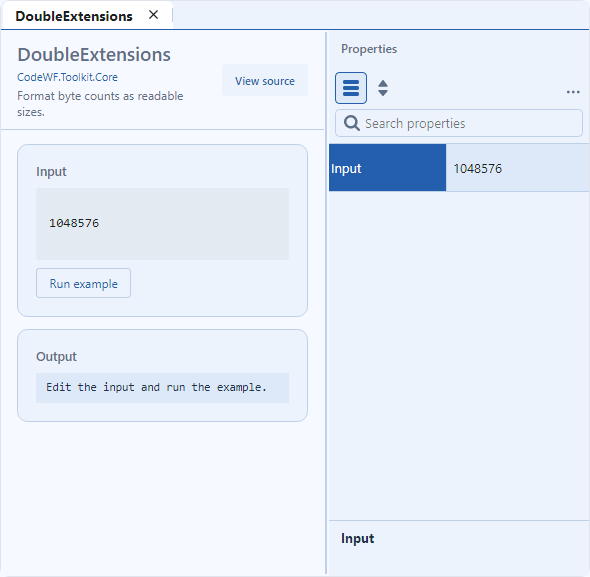
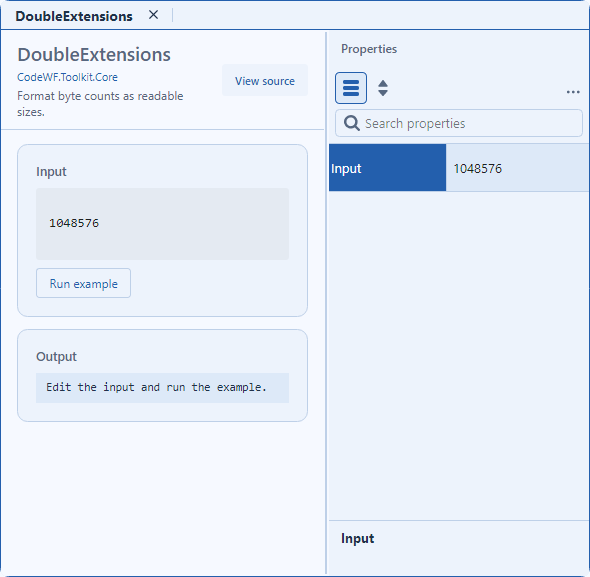
文档：更新1.0.0.25原生演示截图与验收记录

Changed region(s): [[0.0, 0.9983, 1.0, 1.0], [0.0, 0.0, 0.2136, 0.0312]]

diff --git a/docs/NativeDemo.md b/docs/NativeDemo.md
@@ -1,6 +1,6 @@
 # CodeWF.Toolkit 原生 Demo
 
-当前版本 `1.0.0.24`。Demo 使用 Ribbon + Dock，以单个帮助类或公开 API 为导航单位：9 个分类、52 个页面。目录由 `design/catalog.json` 统一维护，它也是 Demo 的构建输入，不能在构建前删除。
+当前版本 `1.0.0.25`。Demo 使用 Ribbon + Dock，以单个帮助类或公开 API 为导航单位：9 个分类、52 个页面。目录由 `design/catalog.json` 统一维护，它也是 Demo 的构建输入，不能在构建前删除。
 
 ## 窗口与演示
 
@@ -26,11 +26,18 @@
 pwsh scripts/sync_localization_keys.ps1 -Check
 pwsh scripts/publish_toolkit_demo.ps1 -RuntimeIdentifier win-x64
 # 本机并行开发可增加 -BuildArtifactsPath E:/github/temp/CodeWF.Toolkit-build
+# 并以 -OutputDirectory E:/github/temp/CodeWF.Toolkit-publish 指定独立空目录
 ```
 
 `scripts/demo-verification` 加载真实 App、XAML 和 Skia，在锁屏期间离屏运行；验证八色点、Ursa 内部按钮的实际点击、语言列表、1120/1440 宽度，以及 Dock 分屏 → 浮动 → 重新停靠。页面覆盖 1664 个页面/语言/配色组合。渲染数量只表示覆盖范围，不代表全页视觉还原率。
 
-2026-10-16 的 `1.0.0.24` 使用独立缓存从官方 NuGet 还原依赖，执行正式 Windows x64 NativeAOT 发布、实际 EXE 自检、原生 UI 验证及 EXE 安装器制作。正式产物检查两语输出资源和全部 52 条内嵌目录；NativeAOT UI 覆盖八色三态、动态语言提示、语言菜单、文档分屏／浮动／回停、1664 组页面渲染和 34 次帮助类实际调用。本轮增加后台全局切语、真实下拉框回切，以及 NuGet 属性编辑器隐藏分支回归。238 项测试通过、3 项显式跳过；12 份 T4 映射及单文件原型的 208 组路由／语言／宽度检查通过。安装器门禁限定完整产品、版本和架构，安装器编译不代表人工安装。
+`1.0.0.25` 库级回归通过 242 项测试，另有 3 项打开目录或浏览器的手动用例显式跳过。新增 AppConfigHelper 批量读写的独立文件与快照回归，验证未更新配置、XML 节与注释保留，以及固定文化转换；UI 验证器的布局、日志和配置通过 `CODEWF_TOOLKIT_DEMO_DATA_DIRECTORY` 写入独立输出目录，不读取日常 Demo 布局。12 个 NuGet 主包和对应符号包统一为 `1.0.0.25`，核对目标程序集与内部依赖版本；本机验证源配置保存在仓库之外。
+
+2026-10-16 的 `1.0.0.25` 执行仓库脚本完成正式 Windows x64 NativeAOT 发布，并运行实际 EXE 的自检，确认版本、两语输出资源、全部 52 条内嵌目录及用户配置未被修改。独立 NativeAOT UI 验证器通过 1664 组页面／语言／配色渲染、34 次帮助类实际调用，以及八色三态、动态切语、真实语言下拉框、属性编辑器隐藏分支和文档分屏／浮动／回停回归。随后运行原生配色审计，覆盖 16 种模式、736 次文字对比度测量，失败数为 0；检查包括真实通知计数与不同通知状态、Ribbon 状态、命令面板和场景标记。
+
+本轮通过仓库外的临时 NuGet 配置和独立缓存消费冻结的 `12.1.4.25` Avalonia 包，保留实际消费包的来源与 SHA-256 收据；本地源不写入仓库。产品和验证器共 318 个源码与构建输入文件的 SHA-256 在最终运行后复核一致。相同源码在另一构建路径重打的包可能有不同文件字节，收据分别记录实际缓存和最终本地 feed，不混用两者的哈希。
+
+本轮也用仓库原有 Inno Setup 脚本编译 `CodeWF.Toolkit.Demo-v1.0.0.25-win-x64-setup.exe`，并生成 SHA-256 文件。独立暂存目录中的程序与已验证正式 EXE 的哈希相同，排除 PDB；原安装脚本保持不变。安装器仅编译，没有执行或进行人工安装。
 
 正式 Demo 的 `--verify-runtime <独立目录>` 不启动窗口、不读取用户配置。Windows 发布流水线在制作安装器前执行该检查；它与加载真实控件的 UI 验证器分别验证正式产物与界面行为。
 
@@ -38,7 +45,7 @@ Windows 本机执行仓库发布脚本，再运行 NativeAOT 验证器并制作 
 
 交付原型为 `design/` 下自包含单 HTML，内嵌全部运行资源，可复制到空目录离线交互。审计实际点击全部路由、色点、三态按钮和语言菜单；窗口框架支持最小化、最大化、关闭与恢复。
 
-README 的 PNG / GIF 已于 2026-10-16 更新为 `1.0.0.24`：普通页面从当前真实控件经 Skia 离屏采集，浮动与回停截图来自正式 NativeAOT UI 验证器。主题巡览使用当前页面截图，JSON、表格与文件系统截图保留实际运行结果；不再展示旧版本的标题栏下拉框。
+README 的停靠、浮动两张 PNG 于 2026-10-16 更新为 `1.0.0.25` NativeAOT UI 验证器的原始 Skia 捕获，复制前后 SHA-256 相同。其余普通页面 PNG 与主题巡览 GIF 保留 `1.0.0.24` 的历史真实控件截图，JSON、表格与文件系统截图保留实际运行结果；不把旧媒体标作本轮产物。详见[截图来源与边界](recheck25-native-media.md)。
 
 ## 验收边界
 

diff --git a/docs/recheck25-native-media.md b/docs/recheck25-native-media.md
@@ -1,0 +1,16 @@
+# 当前原生截图来源
+
+2026-10-16，版本 `1.0.0.25`。README 的两张 Dock PNG 从本轮 Windows x64 NativeAOT UI 验证器的原始 Skia 捕获逐字节复制，展示同一个文档内的真实演示控件、属性面板及停靠状态。它们不是浏览器原型或操作系统桌面截图。
+
+| 仓库图片 | 原生捕获文件 | SHA-256（复制前后相同） |
+| --- | --- | --- |
[2 lines of base64/hex data omitted]
+
+其余普通页面 PNG 和主题巡览 GIF 保留 `1.0.0.24` 的历史真实控件媒体；本轮没有重生成全套 GIF，也没有将旧图片标记为新版本。
+
+构建使用本轮 main 工作区的 `1.0.0.25` 产品源。验收归档保存了 318 个产品与验证输入文件的 SHA-256，以及实际消费的五个 `12.1.4.25` Avalonia 包的来源和 SHA-256。临时 NuGet 源配置保存在仓库之外，不影响其他人单独克隆和构建。
+
+正式应用经仓库发布脚本生成，实际 EXE 的 `--verify-runtime` 检查版本、两语资源和 52 条内嵌目录。独立 NativeAOT UI 验证器通过 1664 组页面／语言／配色渲染、34 次实际 API 调用及动态切语、真实语言菜单、属性隐藏分支、Dock 分屏／浮动／回停回归。原生配色审计通过 16 种模式、736 次文字对比度测量，失败数为 0。
+
+界面验证通过 Headless + Skia 离屏运行，布局、日志与配置写入独立验收目录，不操作用户桌面和日常 Demo 配置。人工跨屏、多 DPI、输入法与安装流程尚未验证；渲染覆盖和局部布局、对比度检查不代表全页像素还原率。
